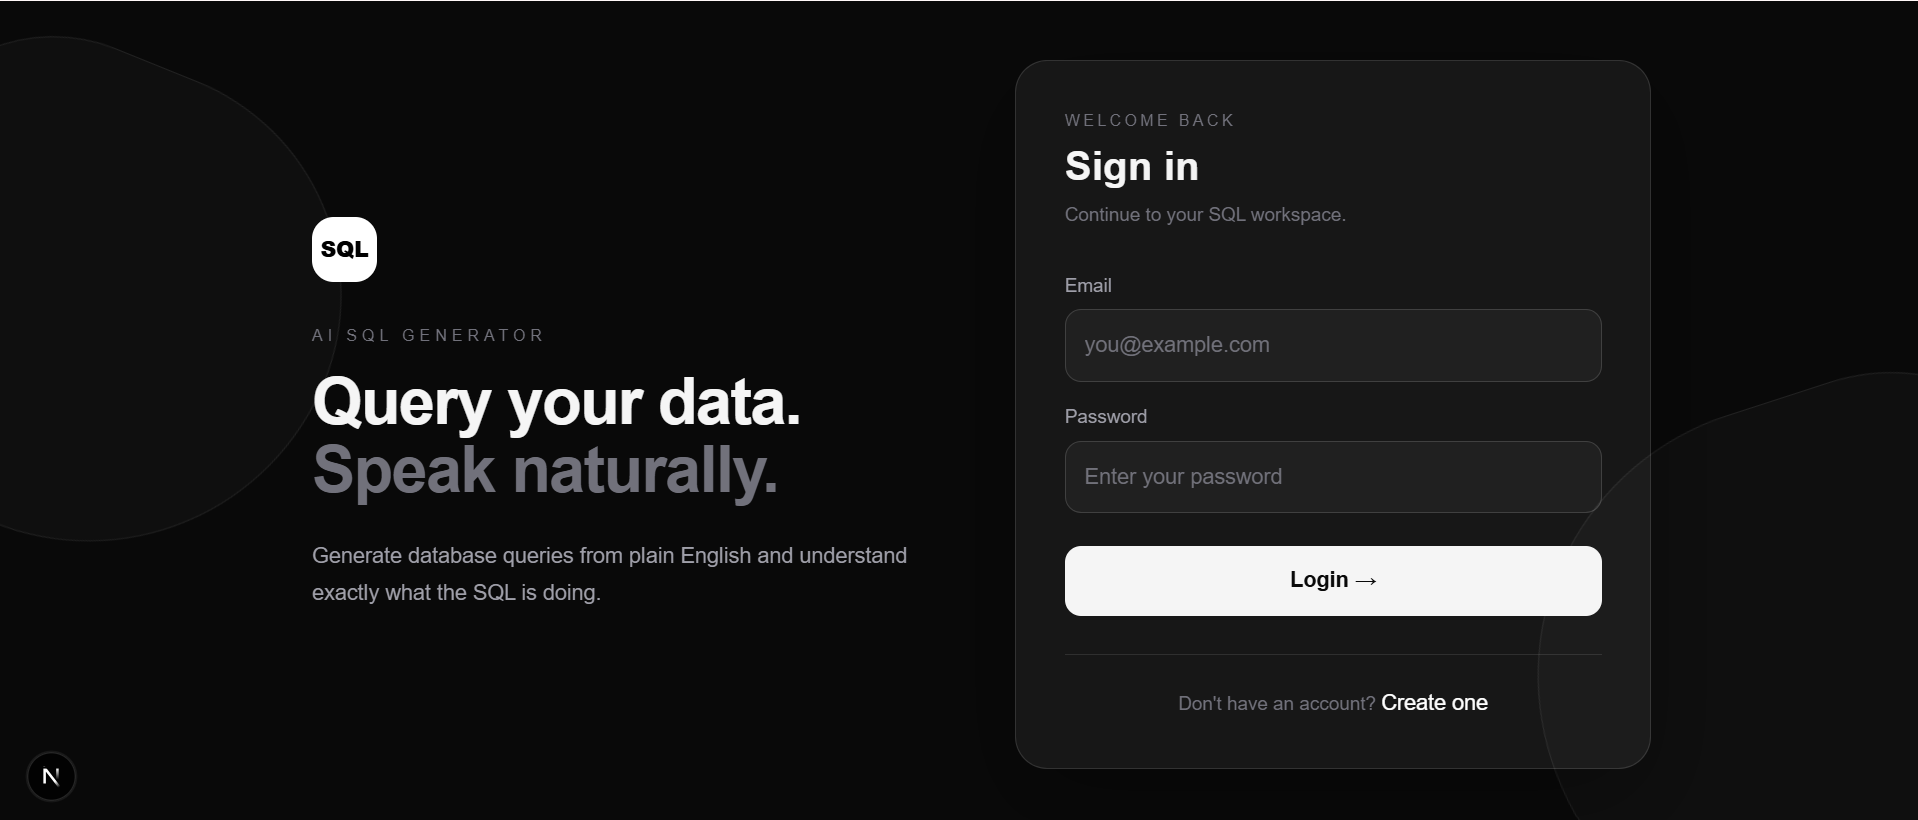
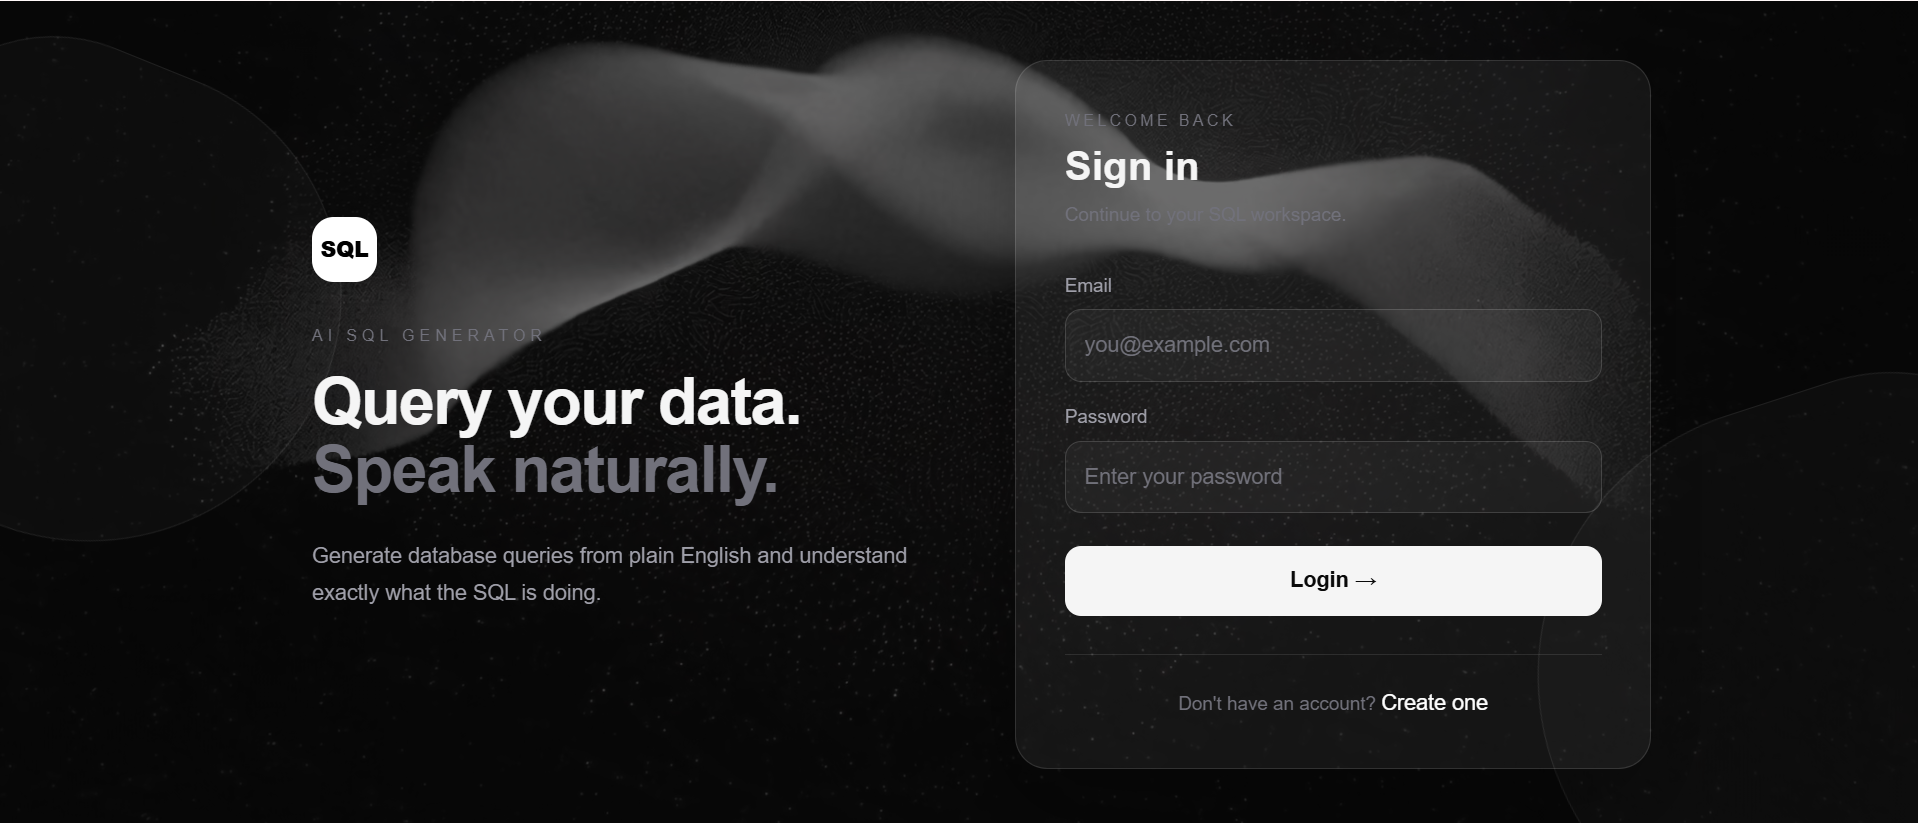
Add new project screenshot and update project data references

diff --git a/src/data/projects.tsx b/src/data/projects.tsx
@@ -161,6 +161,7 @@ const projects: Project[] = [
       `${BASE_PATH}/ai-sql-generator/1.png`,
       `${BASE_PATH}/ai-sql-generator/2.png`,
       `${BASE_PATH}/ai-sql-generator/3.png`,
+      `${BASE_PATH}/ai-sql-generator/4.png`,
     ],
 
     skills: {
@@ -226,6 +227,7 @@ const projects: Project[] = [
               `${BASE_PATH}/ai-sql-generator/1.png`,
               `${BASE_PATH}/ai-sql-generator/2.png`,
               `${BASE_PATH}/ai-sql-generator/3.png`,
+              `${BASE_PATH}/ai-sql-generator/4.png`,
             ]}
           />
 

diff --git a/src/data/constants.ts b/src/data/constants.ts
@@ -735,6 +735,7 @@ export const PROJECT_DETAILS: ProjectDetail[] = [
       "/assets/projects-screenshots/ai-sql-generator/1.png",
       "/assets/projects-screenshots/ai-sql-generator/2.png",
       "/assets/projects-screenshots/ai-sql-generator/3.png",
+      "/assets/projects-screenshots/ai-sql-generator/4.png",
     ],
   },
 
